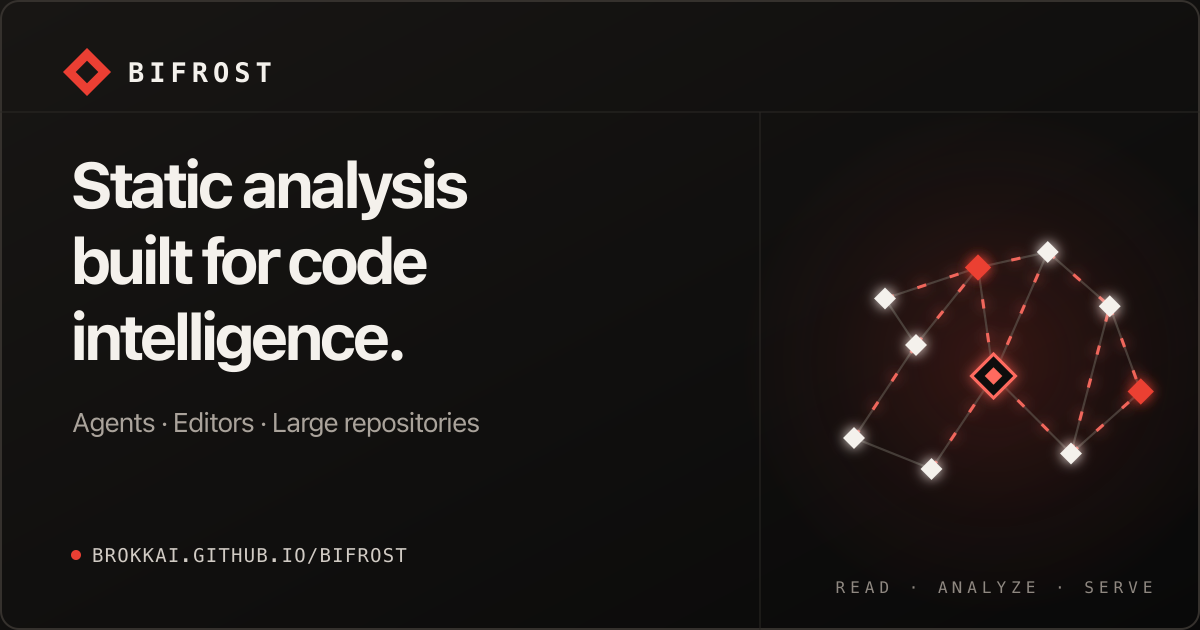
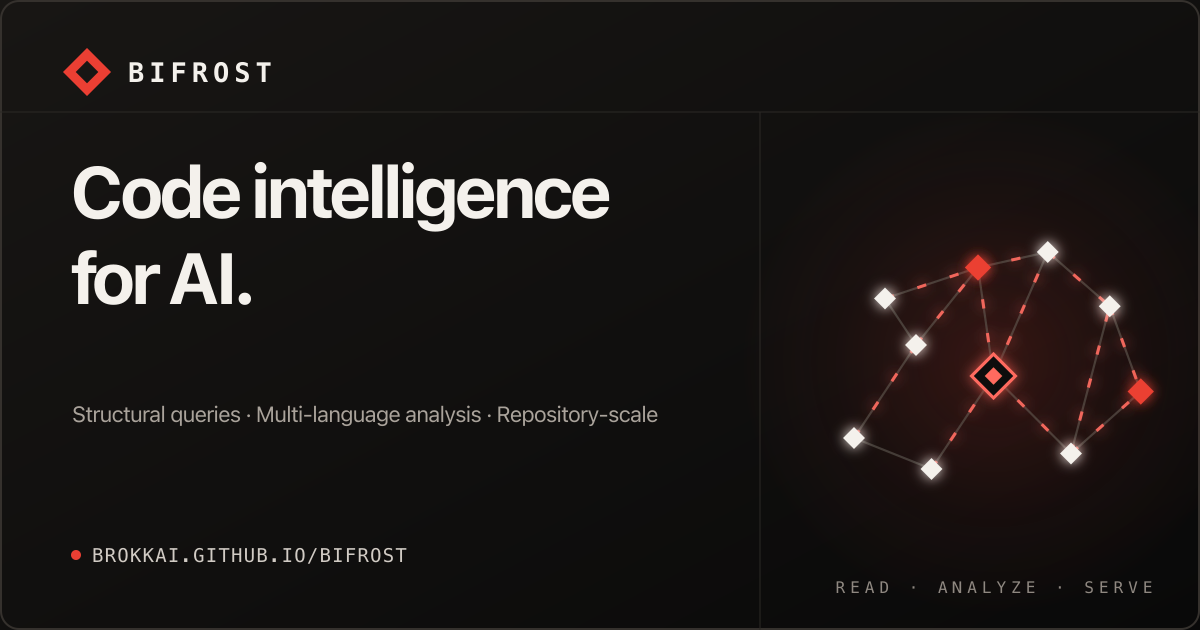
Refine Bifrost social card positioning
Lead with code intelligence for AI and highlight structural queries, multi-language analysis, and repository-scale use. Keep the accessible descriptions, social metadata, README preview, and rendered PNG synchronized with the editable SVG source.

Changed region(s): [[0.0617, 0.2413, 0.5242, 0.6032], [0.0617, 0.6333, 0.555, 0.6937]]

diff --git a/README.md b/README.md
@@ -2,7 +2,7 @@
 
 <p align="center">
   <a href="https://brokkai.github.io/bifrost/">
-    <img src="docs/src/assets/bifrost-social-card.svg" alt="Bifrost — static analysis built for code intelligence" width="720">
+    <img src="docs/src/assets/bifrost-social-card.svg" alt="Bifrost — code intelligence for AI, with structural queries and multi-language analysis designed for repository-scale use" width="720">
   </a>
 </p>
 